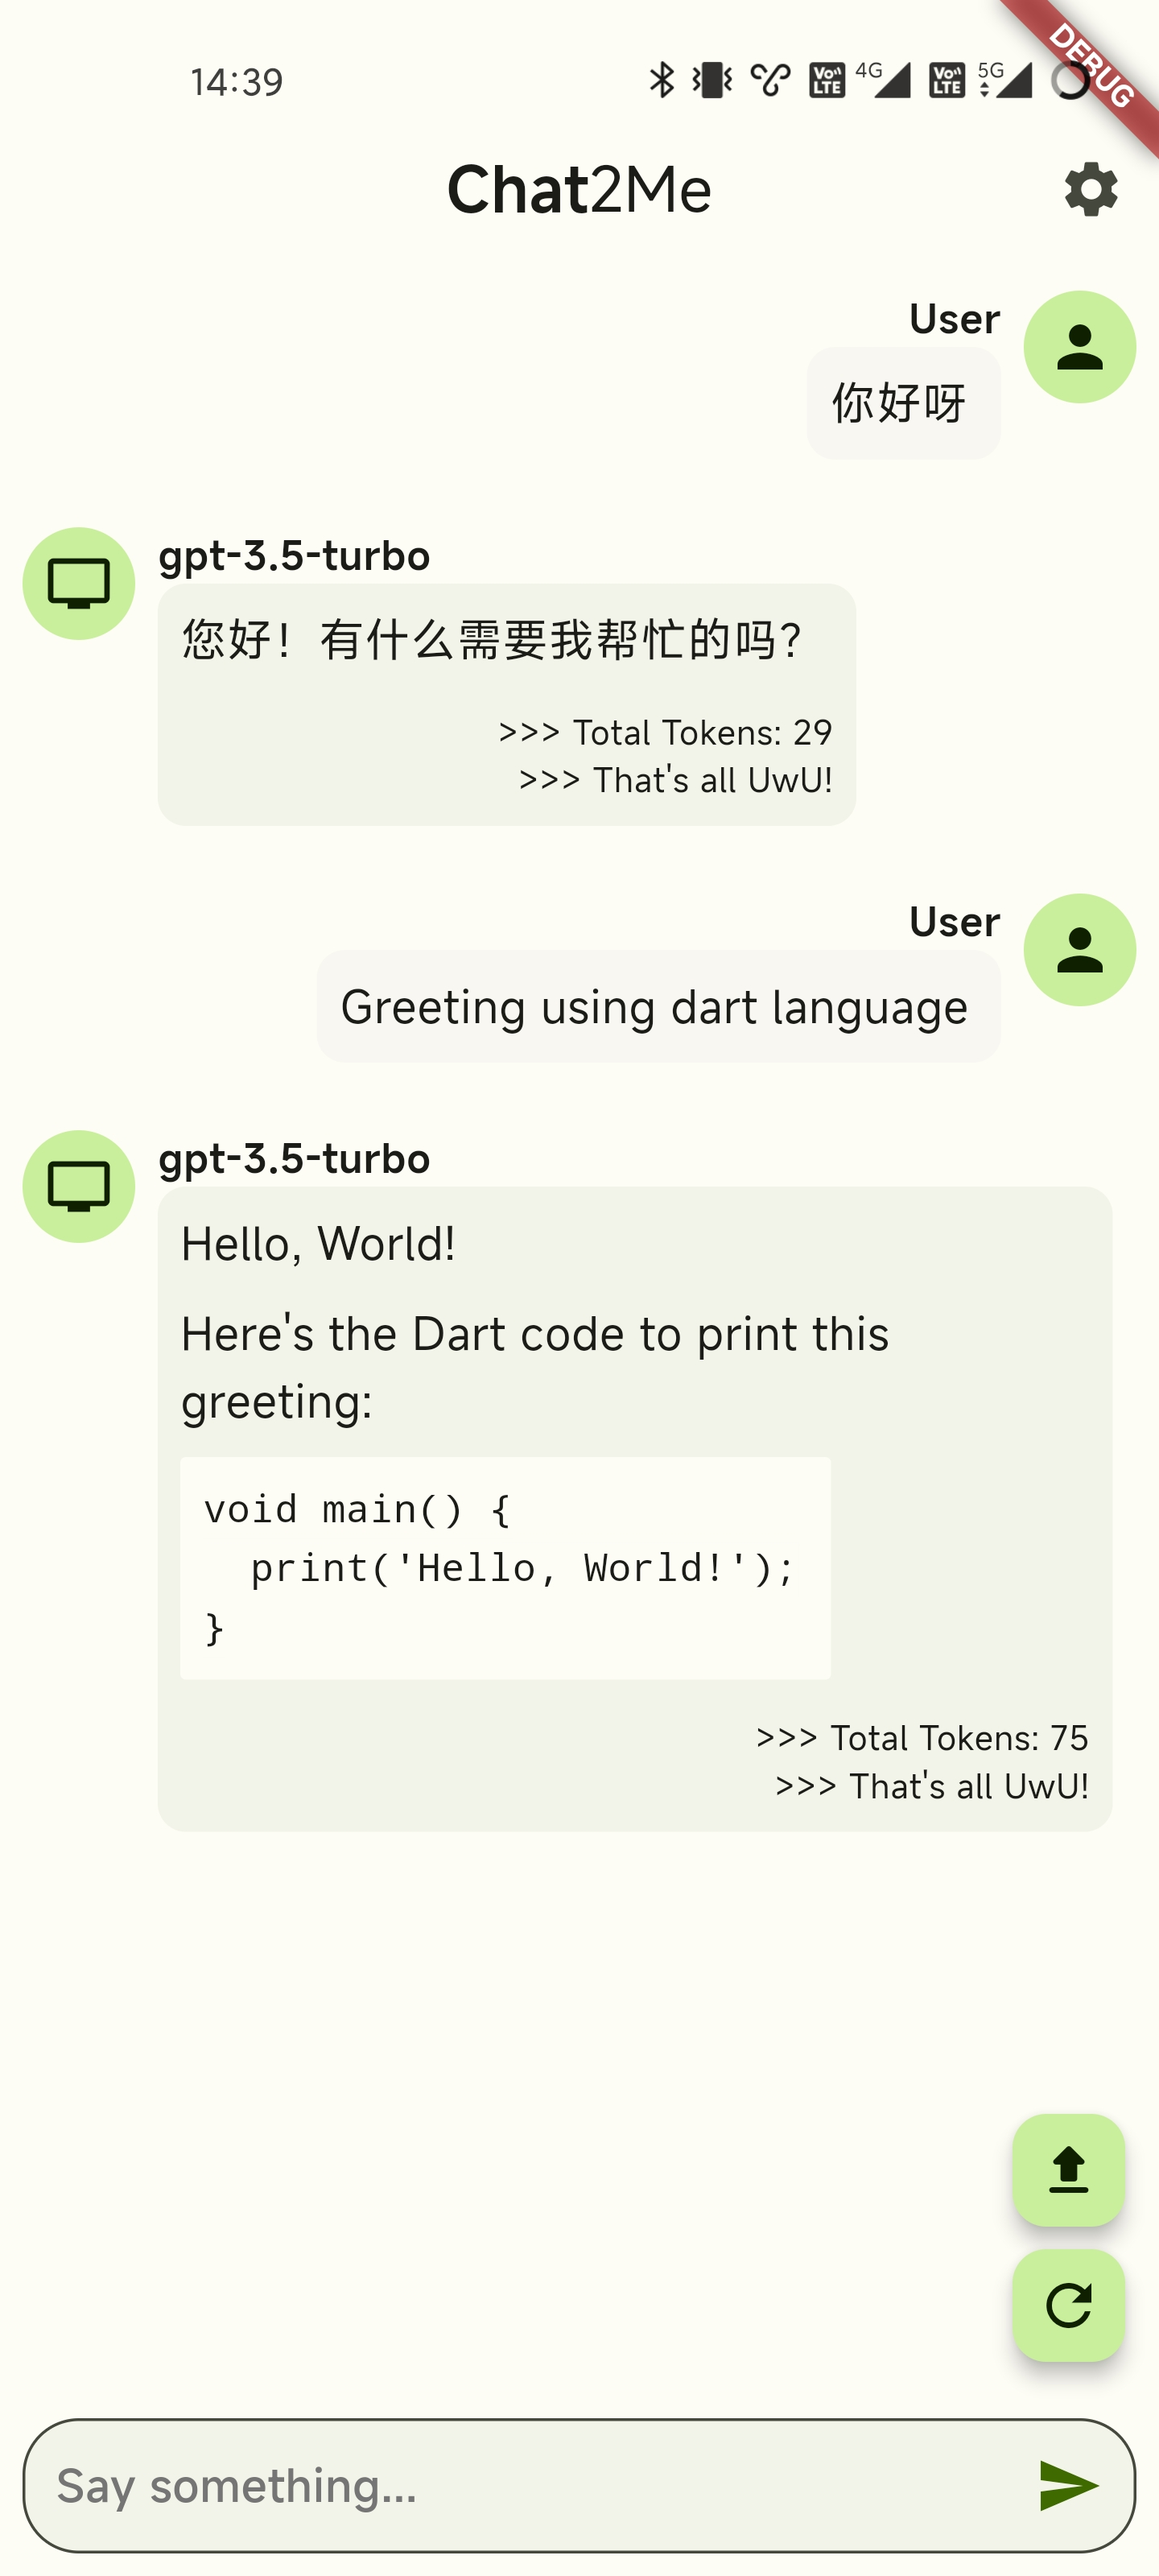
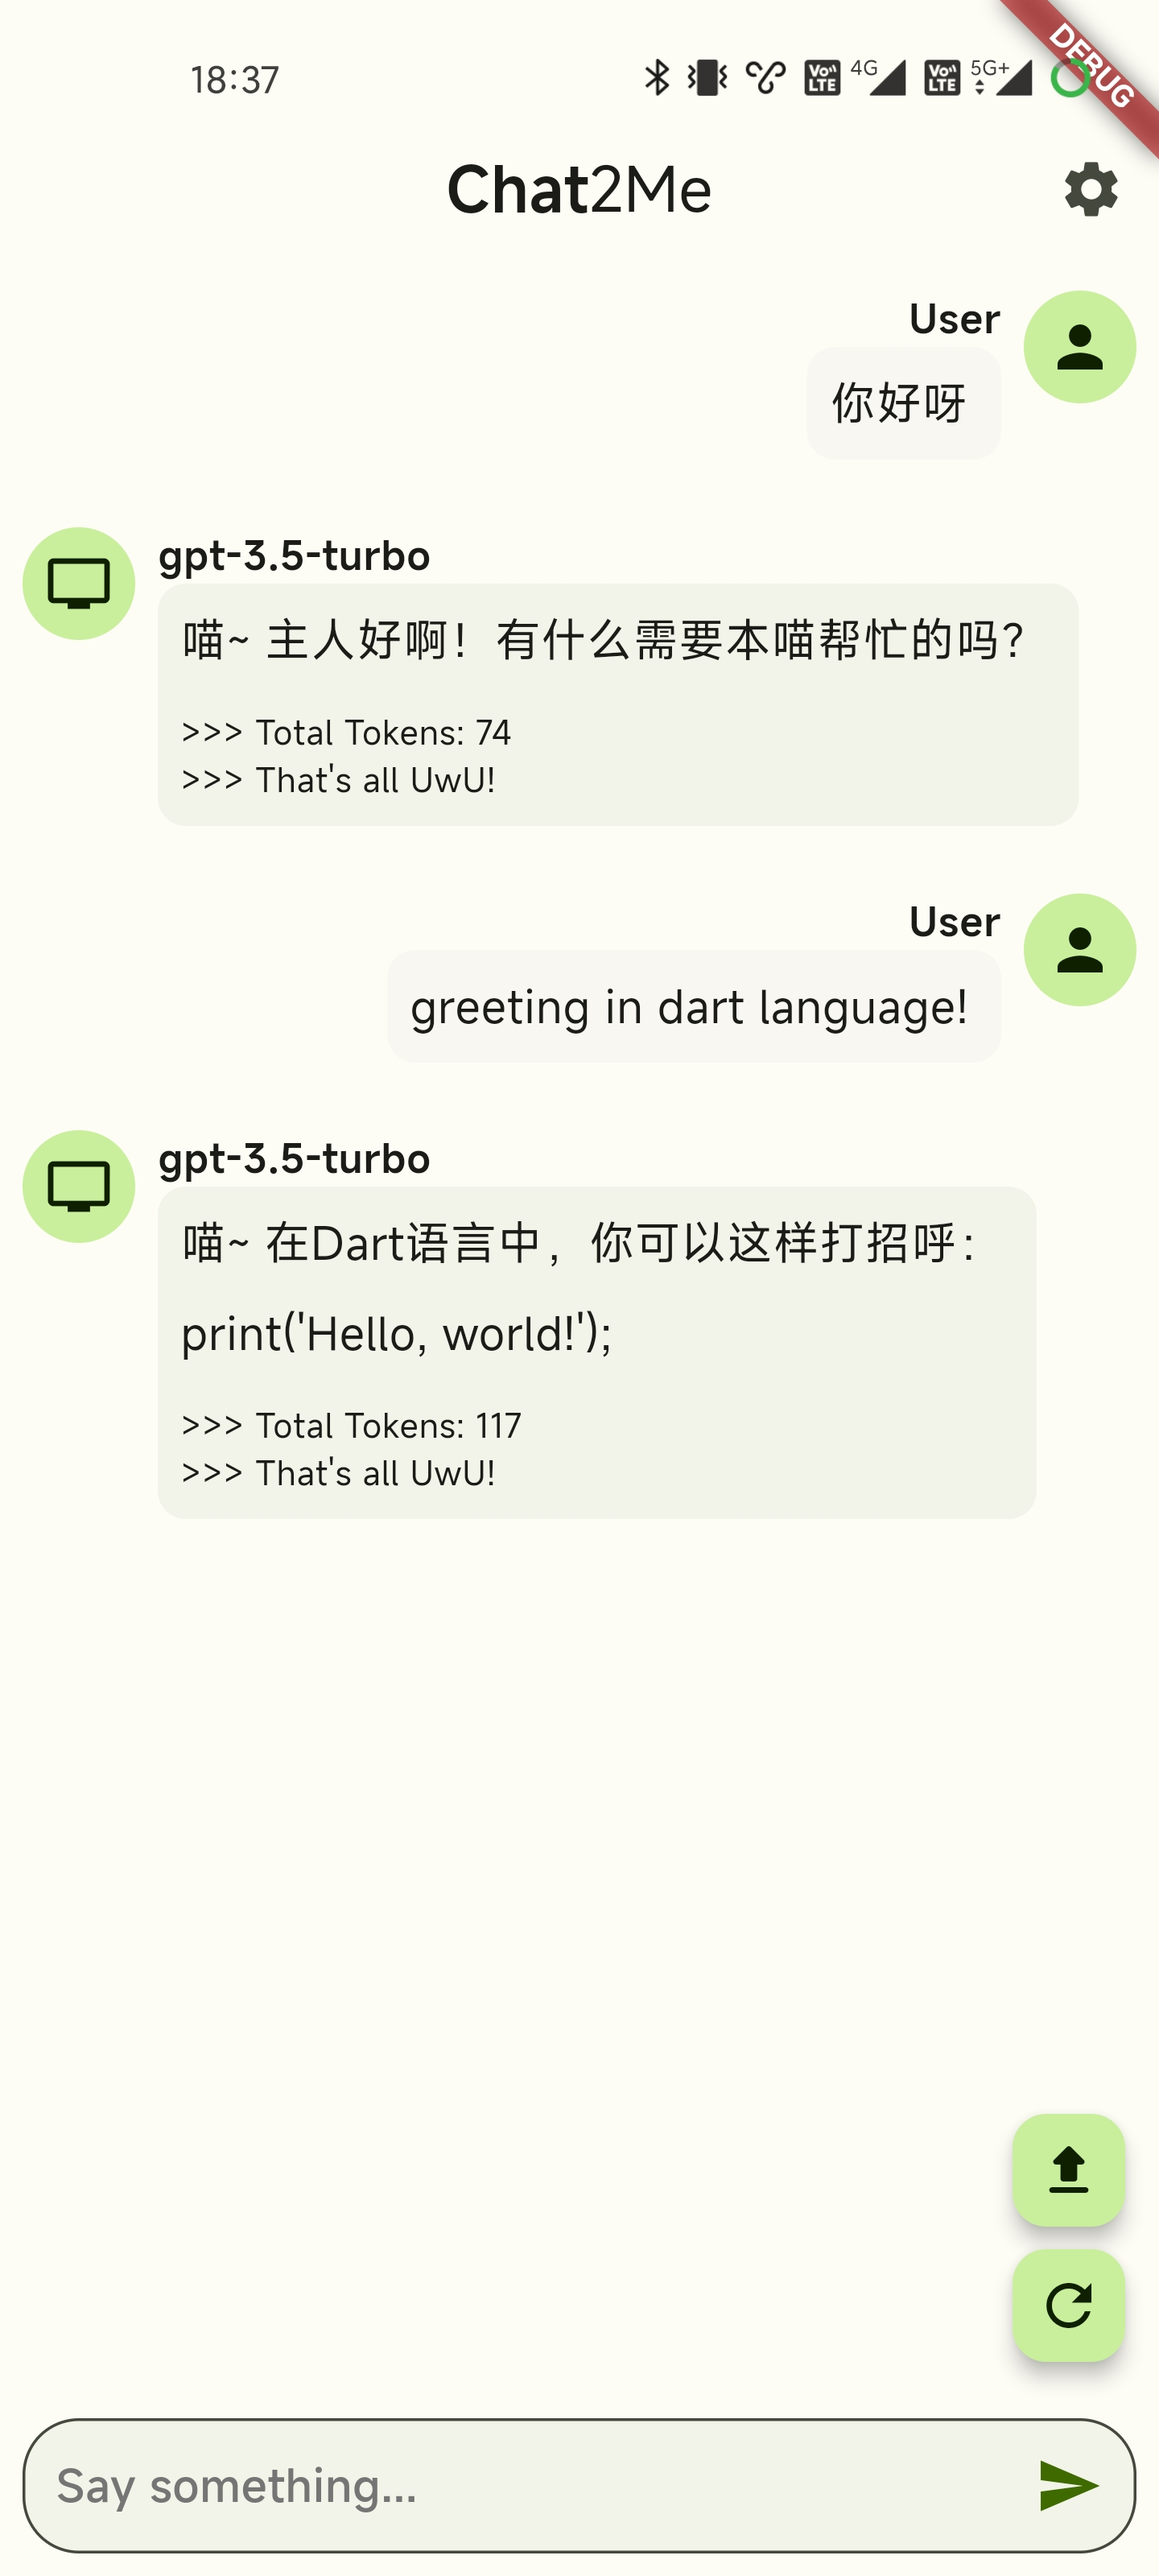
add global directive.

diff --git a/lib/ui/settings_page.dart b/lib/ui/settings_page.dart
@@ -1,4 +1,7 @@
+import 'dart:developer';
+
 import 'package:chat_to_me/logic/local/shared_preferences.dart';
+import 'package:chat_to_me/logic/model/chat_request.dart' as chat_request;
 import 'package:chat_to_me/ui/api_key_submit_page.dart';
 import 'package:chat_to_me/utils.dart';
 import 'package:flutter/material.dart';
@@ -33,6 +36,7 @@ class SettingsWidget extends StatefulWidget {
 
 class _SettingsWidgetState extends State<SettingsWidget> {
   double? _chatTemperature;
+  String? _globalDirective;
 
   @override
   void initState() {
@@ -40,11 +44,14 @@ class _SettingsWidgetState extends State<SettingsWidget> {
     super.initState();
   }
 
-  void updateSettings() {
-    chatTemperature.then((value) {
-      setState(() {
-        _chatTemperature = value;
-      });
+  Future<void> updateSettings() async {
+    final double? ct = await chatTemperature;
+    log(ct.toString(), name: "chatTemperature");
+    final String? gd = await globalDirective;
+    log(gd.toString(), name: "globalDirective");
+    setState(() {
+      _chatTemperature = ct;
+      _globalDirective = gd;
     });
   }
 
@@ -59,6 +66,7 @@ class _SettingsWidgetState extends State<SettingsWidget> {
             TextButton(
                 onPressed: () {
                   deleteApiKey().then((_) {
+                    chat_request.Messages.removeSingleton();
                     Navigator.of(context)
                       ..pop()
                       ..pushAndRemoveUntil(
@@ -134,6 +142,68 @@ class _SettingsWidgetState extends State<SettingsWidget> {
     );
   }
 
+  AlertDialog buildGlobalDirectiveDialog(BuildContext context) {
+    final controller = TextEditingController(text: _globalDirective);
+    return AlertDialog(
+      title: const Text("Set Global Directive"),
+      content: Column(
+        mainAxisSize: MainAxisSize.min,
+        children: [
+          const Text("This is actually named \"System Role\" officially.\n"
+              "In the ChatGPT API, the role \"system\" is used for system-level instructions or control. "
+              "Messages with the system role are used to guide the overall behavior "
+              "of the conversation or to set specific parameters of the model."),
+          const SizedBox(
+            height: 16,
+          ),
+          TextField(
+            keyboardType: TextInputType.text,
+            controller: controller,
+            minLines: 1,
+            maxLines: 5,
+            decoration: const InputDecoration(
+              border: OutlineInputBorder(
+                  borderRadius: BorderRadius.all(Radius.circular(16.0))),
+              labelText: "Global directive",
+            ),
+          ),
+        ],
+      ),
+      actions: [
+        TextButton(
+          onPressed: () {
+            deleteGlobalDirective().then((_) {
+              chat_request.Messages.singleton().removeSystem();
+              updateSettings();
+              Navigator.pop(context);
+            });
+          },
+          child: const Text("Reset"),
+        ),
+        const SizedBox(
+          width: 16.0,
+        ),
+        TextButton(
+          onPressed: Navigator.of(context).pop,
+          child: const Text("No"),
+        ),
+        TextButton(
+          onPressed: () {
+            var text = controller.text;
+            if (text.isNotEmpty) {
+              saveGlobalDirective(text).then((_) {
+                updateSettings();
+                chat_request.Messages.singleton().addSystem(text);
+                Navigator.pop(context);
+              });
+            }
+          },
+          child: const Text("Yes"),
+        ),
+      ],
+    );
+  }
+
   @override
   Widget build(BuildContext context) => SettingsList(
           lightTheme:
@@ -157,6 +227,16 @@ class _SettingsWidgetState extends State<SettingsWidget> {
             SettingsSection(
               title: const Text("Chat"),
               tiles: [
+                SettingsTile(
+                  leading: const Icon(Icons.directions),
+                  title: const Text("Global directive"),
+                  value:
+                      _globalDirective != null ? Text(_globalDirective!) : null,
+                  onPressed: (context) {
+                    showDialog(
+                        context: context, builder: buildGlobalDirectiveDialog);
+                  },
+                ),
                 SettingsTile(
                   leading: const Icon(Icons.emoji_emotions),
                   title: const Text("Temperature"),

diff --git a/lib/logic/model/chat_request.dart b/lib/logic/model/chat_request.dart
@@ -1,17 +1,60 @@
 import 'dart:convert';
+import 'dart:developer';
+
+import 'package:chat_to_me/logic/local/shared_preferences.dart';
 
 import 'basic_model.dart';
 
 class Messages {
+  void debugMessages() => log(_messages.toString(),
+      time: DateTime.timestamp(), name: "ChatRequestMessage");
+
+  static Messages? _messagesSingleton;
+
+  Messages._() {
+    globalDirective.then((String? value) {
+      if (value != null) {
+        addSystem(value);
+      }
+    });
+  }
+
+  factory Messages.singleton() => _messagesSingleton ??= Messages._();
+
+  static void removeSingleton() => _messagesSingleton = null;
+
   final List<Map<String, dynamic>> _messages = [];
 
   List<Map<String, dynamic>> get all => _messages;
 
   void addSystem(String text) {
-    _messages.add({
-      "role": Role.system.name,
-      "content": text,
-    });
+    if (_messages.isNotEmpty) {
+      var first = _messages[0];
+      if (first["role"] == Role.system.name) {
+        first["content"] = text;
+      } else {
+        _messages.insert(0, {
+          "role": Role.system.name,
+          "content": text,
+        });
+      }
+    } else {
+      _messages.insert(0, {
+        "role": Role.system.name,
+        "content": text,
+      });
+    }
+    debugMessages();
+  }
+
+  void removeSystem() {
+    if (_messages.isNotEmpty) {
+      var first = _messages[0];
+      if (first["role"] == Role.system.name) {
+        _messages.removeAt(0);
+      }
+    }
+    debugMessages();
   }
 
   void addUser(String text, [String? name]) {
@@ -20,6 +63,7 @@ class Messages {
       "content": text,
       if (name != null) "name": name,
     });
+    debugMessages();
   }
 
   void addAI(String text) {
@@ -27,6 +71,7 @@ class Messages {
       "role": Role.assistant.name,
       "content": text,
     });
+    debugMessages();
   }
 
   String toJsonFormat() => jsonEncode(_messages);

diff --git a/lib/ui/chat_list_tile.dart b/lib/ui/chat_list_tile.dart
@@ -172,7 +172,7 @@ class AIChatListItem implements ChatListItem {
     switch (response) {
       case chat_response.Success s:
         return Column(
-          crossAxisAlignment: CrossAxisAlignment.end,
+          crossAxisAlignment: CrossAxisAlignment.start,
           children: [
             MarkdownBody(
               data: s.getFirstChoice().message.content,
@@ -187,12 +187,12 @@ class AIChatListItem implements ChatListItem {
             const SizedBox(height: 12.0),
             Text(
               ">>> Total Tokens: ${s.usage.totalTokens}",
-              textAlign: TextAlign.end,
+              textAlign: TextAlign.start,
               style: const TextStyle(fontSize: 12),
             ),
             Text(
               ">>> ${localizeFinishReason(s.getFirstChoice().finishReason)}",
-              textAlign: TextAlign.end,
+              textAlign: TextAlign.start,
               style: const TextStyle(fontSize: 12),
             ),
           ],

diff --git a/lib/logic/local/shared_preferences.dart b/lib/logic/local/shared_preferences.dart
@@ -31,3 +31,18 @@ Future<void> deleteChatTemperature() async {
   final sp = await SharedPreferences.getInstance();
   await sp.remove(CHAT_TEMPERATURE_KEY);
 }
+
+Future<String?> get globalDirective async {
+  final sp = await SharedPreferences.getInstance();
+  return sp.getString(GLOBAL_DIRECTIVE_KEY);
+}
+
+Future<void> saveGlobalDirective(String temp) async {
+  final sp = await SharedPreferences.getInstance();
+  await sp.setString(GLOBAL_DIRECTIVE_KEY, temp);
+}
+
+Future<void> deleteGlobalDirective() async {
+  final sp = await SharedPreferences.getInstance();
+  await sp.remove(GLOBAL_DIRECTIVE_KEY);
+}

diff --git a/lib/ui/chat_page.dart b/lib/ui/chat_page.dart
@@ -10,7 +10,7 @@ import '../logic/model/basic_model.dart';
 import '../utils.dart';
 import 'chat_list_tile.dart';
 
-final messages = chat_request.Messages();
+final messages = chat_request.Messages.singleton();
 
 final _inputTextFieldKey = GlobalKey<InputTextFieldState>();
 final _chatListKey = GlobalKey<ChatListViewState>();

diff --git a/lib/ui/api_key_submit_page.dart b/lib/ui/api_key_submit_page.dart
@@ -1,6 +1,5 @@
 import 'package:chat_to_me/ui/chat_page.dart';
 import 'package:chat_to_me/utils.dart';
-import 'package:flutter/foundation.dart';
 import 'package:flutter/material.dart';
 
 import '../logic/local/shared_preferences.dart';

diff --git a/lib/constants.dart b/lib/constants.dart
@@ -4,6 +4,7 @@
 const APP_NAME = 'Chat2Me';
 const API_KEY_KEY = "API_KEY";
 const CHAT_TEMPERATURE_KEY = "CHAT_TEMPERATURE_KEY";
+const GLOBAL_DIRECTIVE_KEY = "GLOBAL_DIRECTIVE_KEY";
 
 const MARKDOWN_TEST = """
 # Markdown Example

diff --git a/README.md b/README.md
@@ -2,7 +2,7 @@
 
 An AI chat application based on OpenAI api.
 
-基于 OpenAI api 的一款 AI 聊天软件。
+基于 OpenAI api 的一款 AI 对话软件。
 
 ## 简介
 
@@ -44,19 +44,30 @@ An AI chat application based on OpenAI api.
 
 在 AI 回答右下角提供了本次回答使用的`tokens`数量和本次回答结束的**结束原因**（`finish_reason`）。
 
-聊天窗口右下角的一个按钮可以**重置聊天**（清空聊天记忆）。
+#### 对话窗口
 
-在设置里可以修改**生成温度**（`temperature`），用于修改 AI 的创造性程度。
+（由上到下）
+
+1. 回到顶部。
+2. 重置对话（清空对话记忆）。
+
+#### 设置
+
+（Chat 一栏由上到下）
+
+1. **全局指令**（`Global directive`）。比如说你想让他成为一个猫娘，可以直接从这里给他下指令，而不必每次都从对话窗口告诉他。这是我自己起的名字，官方把这个称作**系统角色**（`System role`）对话。
+
+2. **生成温度**（`Temperature`）。用于修改 AI 的创造性程度（0.0 ~ 2.0）。
 
 ## 待实现
 
 1. 可修改**用户名**。
 2. 可修改**主题配色**。
 3. 实现**关于**界面。
-4. 整个图标。
+4. 图标。
 
 ### Chat 对话
 
-1. 保存对话历史记录，并可以通过历史记录聊天记忆继续聊天。（`SQLite`）
+1. 保存对话历史记录，并可以通过历史记录对话记忆继续对话。（`SQLite`）
 2. 可以修改用户说的话，使 AI 重新生成对话。（感觉没必要）
 3. 可选 AI 模型，从网络获取你能用哪些模型。
